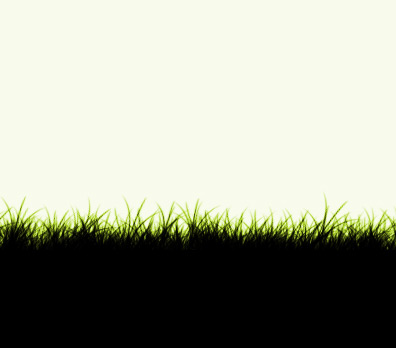
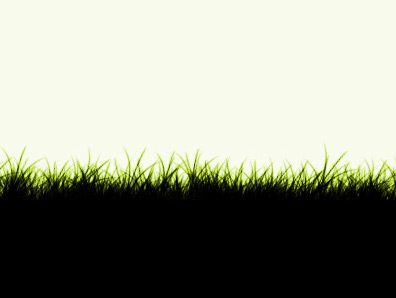
intregrated new layout a bit more

Changed region(s): [[0.0, 0.4832, 1.0, 0.7248]]

diff --git a/public/stylesheets/default.css b/public/stylesheets/default.css
@@ -58,7 +58,7 @@ a:hover {
 
 #header {
 	width: 760px;
-	height: 288px;
+	height: 200px;
 	margin: 0 auto;
 	background: url(../images/img02.jpg) no-repeat right top;
 }
@@ -69,7 +69,12 @@ a:hover {
 }
 
 #header h1 {
-	padding: 100px 0 0 70px;
+	padding: 50px 0 0 70px;
+}
+
+#header h1 a {
+	color: #9CBC1E;
+	text-decoration: none;  
 }
 
 #header p {
@@ -78,6 +83,17 @@ a:hover {
 }
 #header a {
 	color: #E6B715;
+}
+
+#header h2 {
+	margin: 0px 0px 0px 100px;
+	color: #6C8C00;
+}
+
+#login {
+  float: right;
+  margin: 50px 0 0 0px;
+  text-align: right;
 }
 
 /* Page */

diff --git a/app/models/invoice.rb b/app/models/invoice.rb
@@ -27,5 +27,5 @@ class Invoice < ActiveRecord::Base
     # check for nulling checkbox
     attrs.delete_if { |k,v| k =~ /^paid$|^paid\([1-3]i\)$/ } if attrs['paid'] == "0"
     super(attrs)
-  end	
+  end
 end
